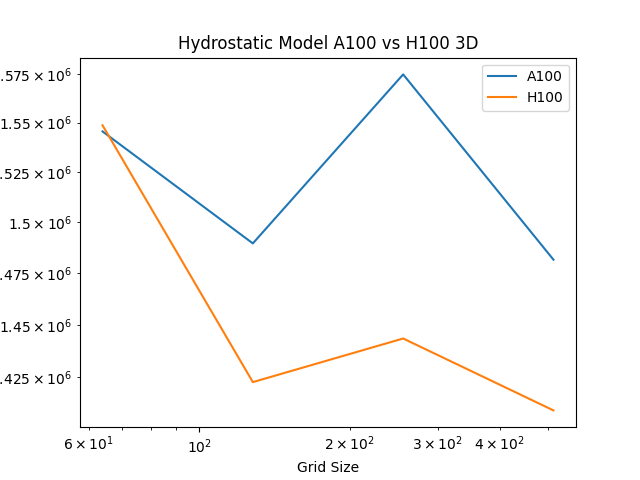
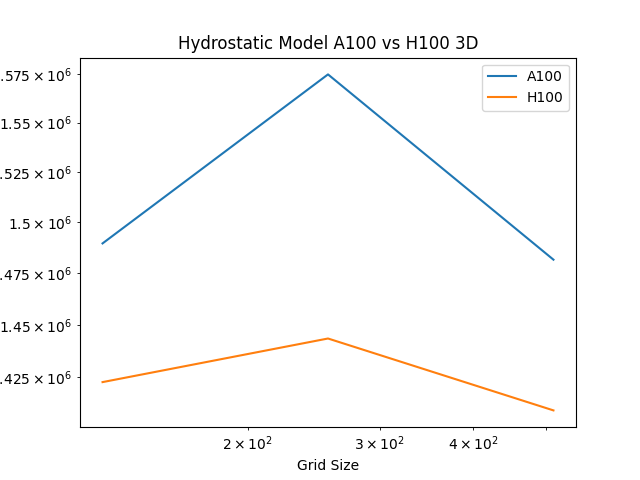
one less point

diff --git a/new_benchmarks/3d_plotter.py b/new_benchmarks/3d_plotter.py
@@ -8,11 +8,11 @@ hydrostatic_a100 = data_a100[(data_a100["Model"] == "Hydrostatic")]
 data_h100 = pd.read_csv("./H100_3d.csv", delimiter=",",index_col=None)
 hydrostatic_h100 = data_h100[(data_h100["Model"] == "Hydrostatic")]
 
-grid_sizes = np.array([64,128,256,512])
+grid_sizes = np.array([128,256,512])
 
 #comparison of the gpus
-plt.loglog(grid_sizes, hydrostatic_a100["MeanTime"][1:])
-plt.loglog(grid_sizes, hydrostatic_h100["MeanTime"][1:])
+plt.loglog(grid_sizes, hydrostatic_a100["MeanTime"][2:])
+plt.loglog(grid_sizes, hydrostatic_h100["MeanTime"][2:])
 plt.title("Hydrostatic Model A100 vs H100 3D")
 plt.xlabel("Grid Size")
 plt.ylabel("Mean Time")
